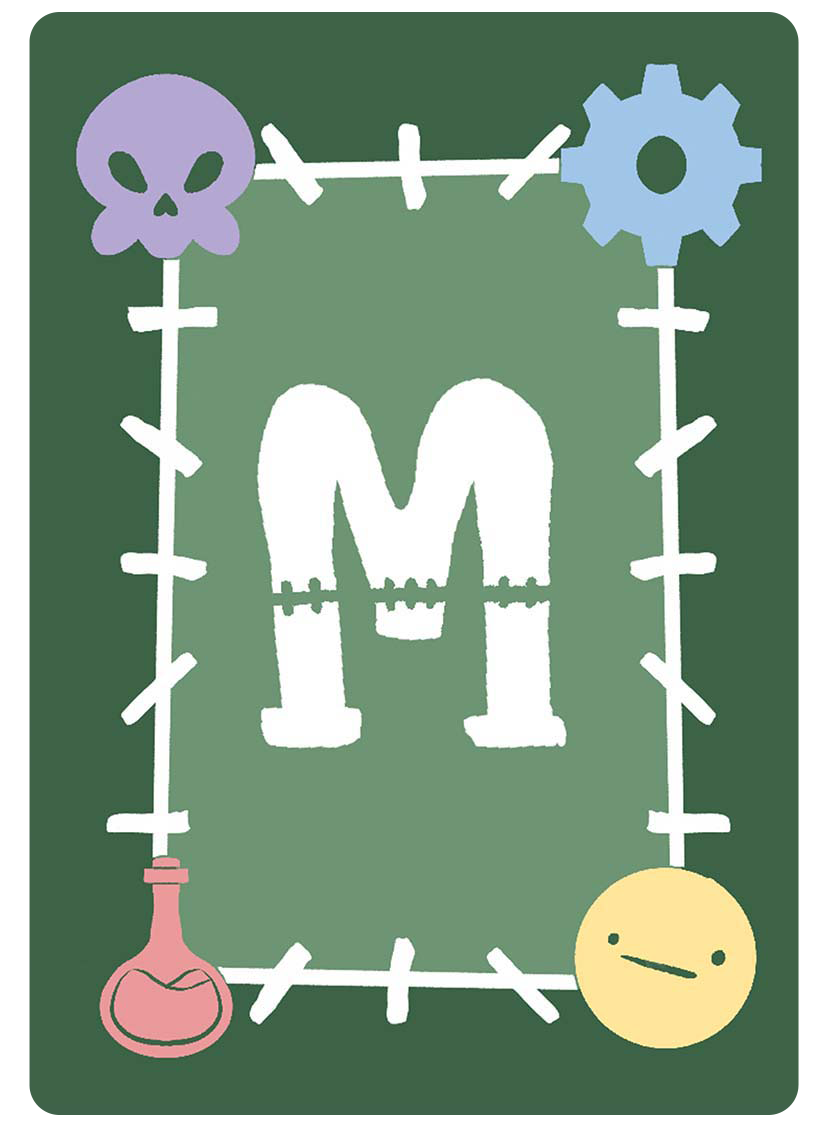
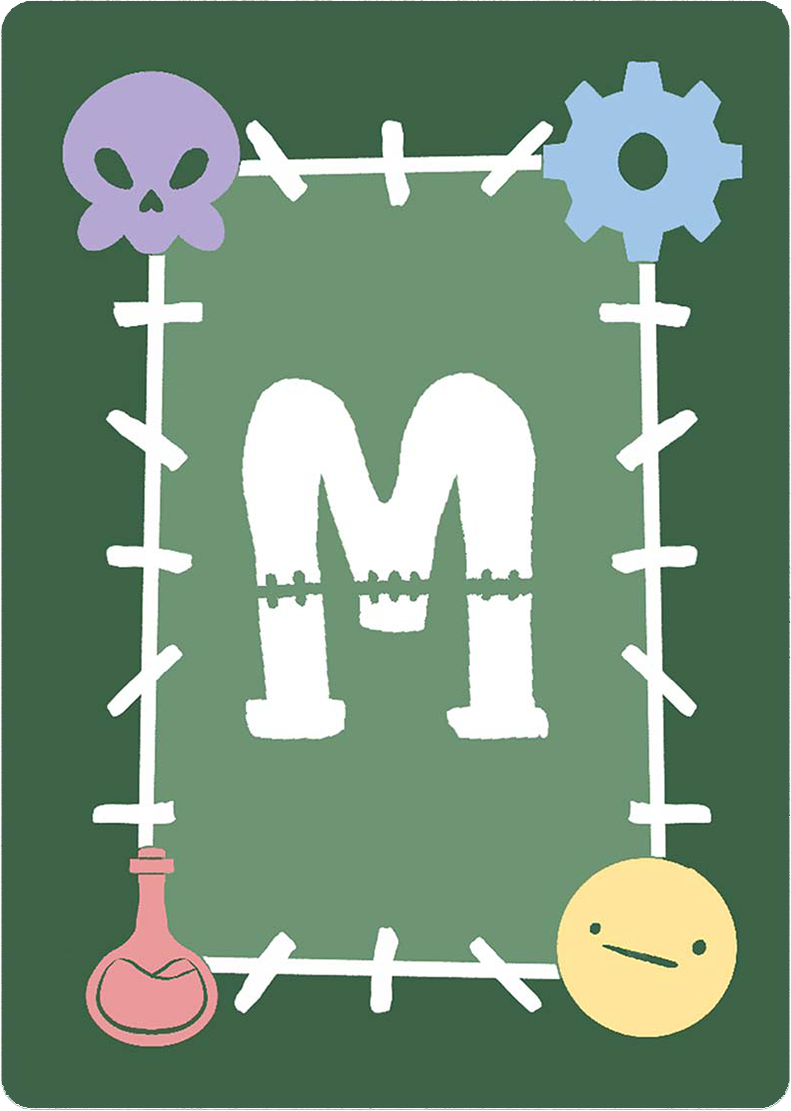
Added cards to bg

diff --git a/assets/css/CardCarousel.css b/assets/css/CardCarousel.css
@@ -34,10 +34,10 @@
     justify-content: space-between;
      position: fixed;
     top: 0;
-    width: 100%;
+    width: 115%;
     transform: translateY(-100vh);
-    transform: translateY(-100vh);  /* hidden by default, no animation */
-    z-index: 1;
+   
+    z-index: 2;
 }
 .carouselBot {
  margin: 0 auto;
@@ -49,9 +49,9 @@
     justify-content: space-between;
      position: fixed;
     bottom: 0;
-    width: 100%;
+    width: 115%;
     transform: translateY(100vh);
-    transform: translateY(100vh);   /* hidden by default, no animation */
+
     z-index: 1;
 }
 
@@ -59,7 +59,7 @@
     display: flex;
     gap: 0px;
     /* Add padding to the right to create a gap between the last and first card. */
-    padding-right: 10px;
+    padding-right: 0px;
      will-change: transform; /* We should be nice to the browser - let it know what we're going to animate. */
     animation:scrolling 20s linear 1s infinite; 
  }
@@ -68,7 +68,7 @@
     display: flex;
     gap: 0px;
     /* Add padding to the right to create a gap between the last and first card. */
-    padding-right: 10px;
+    padding-right: 0px;
      will-change: transform; /* We should be nice to the browser - let it know what we're going to animate. */
     
     animation: scrollOpposite 20s linear 1s infinite; 
@@ -124,7 +124,9 @@
   }
 
 .card {
-    width: auto;
+    width: 16.67%;        /* set whatever width you want */
+    flex-shrink: 0;      /* prevent it from shrinking */
+    /* width: auto; */
     height:fit-content;
     color: white;
     border-radius: 24px;
@@ -137,18 +139,6 @@
     
 
 
-    &:nth-child(1) {
-        /* background: #7958ff; */
-          
-    }
-
-    &:nth-child(2) {
-        /* background: #5d34f2; */
-    }
-
-    &:nth-child(3) {
-        /* background: #4300da; */
-    }
 
 }
 .card img {
@@ -157,3 +147,4 @@ width:80%;
 filter: drop-shadow(5px 5px 5px #222);
 
 }
+

diff --git a/index.html b/index.html
@@ -367,36 +367,40 @@ print 'It took ' + i + ' iterations to sort the deck.';</code></pre>
 			<div class="container" >
 				<div class="carousel">
 					<div class="group">
+						<div class="card"><img src="images\Rounded corner images\Tops\Card_Rounded_0003_templatev5pleasefuckingwork_Bear.png" alt="" /></div>
 						<div class="card"><img src="images/card back.png" alt="" /></div>
+						<div class="card"><img src="images\Rounded corner images\Tops\Card_Rounded_0006_templatev5pleasefuckingwork_Cyclops.png" alt="" /></div>
 						<div class="card"><img src="images/card back.png" alt="" /></div>
-						<div class="card"><img src="images/card back.png" alt="" /></div>
-						<div class="card"><img src="images/card back.png" alt="" /></div>
+						<div class="card"><img src="images\Rounded corner images\Tops\Card_Rounded_0010_templatev5pleasefuckingwork_Dragon.png" alt="" /></div>
 						<div class="card"><img src="images/card back.png" alt="" /></div>
 					</div>
 					<!-- Add `aria-hidden` to hide the duplicated cards from screen readers. -->
 					<div aria-hidden class="group">
+						<div class="card"><img src="images\Rounded corner images\Tops\Card_Rounded_0003_templatev5pleasefuckingwork_Bear.png" alt="" /></div>
 						<div class="card"><img src="images/card back.png" alt="" /></div>
+						<div class="card"><img src="images\Rounded corner images\Tops\Card_Rounded_0006_templatev5pleasefuckingwork_Cyclops.png" alt="" /></div>
 						<div class="card"><img src="images/card back.png" alt="" /></div>
-						<div class="card"><img src="images/card back.png" alt="" /></div>
-						<div class="card"><img src="images/card back.png" alt="" /></div>
+						<div class="card"><img src="images\Rounded corner images\Tops\Card_Rounded_0010_templatev5pleasefuckingwork_Dragon.png" alt="" /></div>
 						<div class="card"><img src="images/card back.png" alt="" /></div>
 					</div>
 				</div>
 
 				<div class="carouselBot">
 					<div class="groupRight">
+						<div class="card"><img src="images\Rounded corner images\Bottoms\Card_Rounded_0002_templatev5pleasefuckingwork_Animatronic-Legs.png" alt="" /></div>
 						<div class="card"><img src="images/card back.png" alt="" /></div>
+						<div class="card"><img src="images\Rounded corner images\Bottoms\Card_Rounded_0008_templatev5pleasefuckingwork_Djinn.png" alt="" /></div>
 						<div class="card"><img src="images/card back.png" alt="" /></div>
-						<div class="card"><img src="images/card back.png" alt="" /></div>
-						<div class="card"><img src="images/card back.png" alt="" /></div>
+						<div class="card"><img src="images\Rounded corner images\Bottoms\Card_Rounded_0012_templatev5pleasefuckingwork_Ent.png" alt="" /></div>
 						<div class="card"><img src="images/card back.png" alt="" /></div>
 					</div>
 					<!-- Add `aria-hidden` to hide the duplicated cards from screen readers. -->
 					<div aria-hidden class="groupRight">
+						<div class="card"><img src="images\Rounded corner images\Bottoms\Card_Rounded_0002_templatev5pleasefuckingwork_Animatronic-Legs.png" alt="" /></div>
 						<div class="card"><img src="images/card back.png" alt="" /></div>
+						<div class="card"><img src="images\Rounded corner images\Bottoms\Card_Rounded_0008_templatev5pleasefuckingwork_Djinn.png" alt="" /></div>
 						<div class="card"><img src="images/card back.png" alt="" /></div>
-						<div class="card"><img src="images/card back.png" alt="" /></div>
-						<div class="card"><img src="images/card back.png" alt="" /></div>
+						<div class="card"><img src="images\Rounded corner images\Bottoms\Card_Rounded_0012_templatev5pleasefuckingwork_Ent.png" alt="" /></div>
 						<div class="card"><img src="images/card back.png" alt="" /></div>
 					</div>
 				</div>